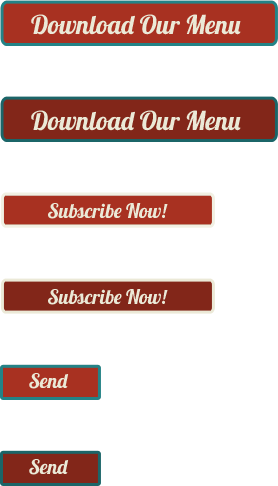
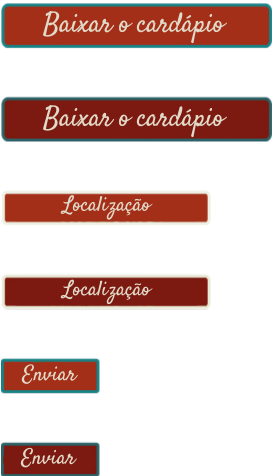
Corrigindo algumas imagens e melhorando o footer

diff --git a/index.html b/index.html
@@ -36,13 +36,13 @@
 			</p>
 			<ul>
 				<li>
-					<a href="hotdog.html"><img src="images/hotdogs.jpg" width="284" height="214" alt=""></a>
+					<a href="burger.html"><img src="images/cardapio.jpg" alt="cardapio" width="284" height="214" ></a>
 				</li>
 				<li>
-					<a href="shake.html"><img src="images/shakes.jpg" alt="" width="284" height="214"></a>
+					<a href="https://maps.app.goo.gl/1G7mAjPanYT5jSCb6" target="_blank"><img src="images/localizacao.jpg" alt="localização" width="284" height="214"></a>
 				</li>
 				<li>
-					<a href="breakfast.html"><img src="images/breakfast.jpg" alt="" width="284" height="214"></a>
+					<a href="https://www.instagram.com/retroburger.esp/" target="_blank"><img src="images/instagram.jpg" alt="instagram" width="284" height="214"></a>
 				</li>
 			</ul>
 		</div>
@@ -55,35 +55,34 @@
 					<h3>(83) 98689-5917</h3>
 					<ul>
 						<li>
-							<a href="" class="instagram"></a>
+							<a href="https://www.instagram.com/retroburger.esp/" class="instagram" target="_blank"></a>
 						</li>
 						<li>
-							<a href="" class="whatsapp"></a>
+							<a href="https://api.whatsapp.com/send/?phone=5583986895917&text&type=phone_number&app_absent=0" class="whatsapp" target="_blank"></a>
 						</li>
-
 					</ul>
 				</li>
 				<li>
 					<a href="index.html"><img class="logo" src="images/logo-footer.png" alt=""></a>
 					<ul class="navigation">
 						<li>
-							<a href="index.html">Home</a>
+							<a href="index.html">Início</a>
 						</li>
 						<li>
-							<a href="about.html">About Us</a>
+							<a href="about.html">Sobre</a>
 						</li>
 						<li>
-							<a href="menu.html">Menu</a>
+							<a href="menu.html">Cardápio</a>
 						</li>
 						<li>
-							<a href="contact.html">Contact Us</a>
+							<a href="contact.html">Contato</a>
 						</li>
 					</ul>
-					<span>&copy; 2024 Rick Salviano. Todos os direitos reservados</span>
+					<span>&copy; 2024 <a href="https://www.instagram.com/_rick.dev/" target="_blank">Rick Salviano</a>. Todos os direitos reservados</span>
 				</li>
 				<li class="last">
 					<h2>Conheça nossa hamburgueria</h2>
-					<form action="index.html">
+					<form action="https://maps.app.goo.gl/1G7mAjPanYT5jSCb6" target="_blank">
 						<input type="submit" value="">
 					</form>
 				</li>

diff --git a/css/style.css b/css/style.css
@@ -88,7 +88,7 @@ img {
 	font-family :'Lobster1.4Regular';
 	font-size :16px;
 	color :#c8dfe1;
-	font-size :21px;
+	font-size :22px;
 }
 #header div ul.navigation li a:hover {
 	color :#ebe9d7;
@@ -111,14 +111,14 @@ img {
 }
 #body .featured h2 {
 	font-family :'Lobster1.4Regular';
-	font-size :36px;
+	font-size :38px;
 	color :#207AA4;
 	display :block;
 	font-weight :normal;
 }
 #body .featured p {
 	font-family :'NunitoRegular';
-	font-size :16px;
+	font-size :18px;
 	color :#4c1407;
 }
 #body .featured p a {
